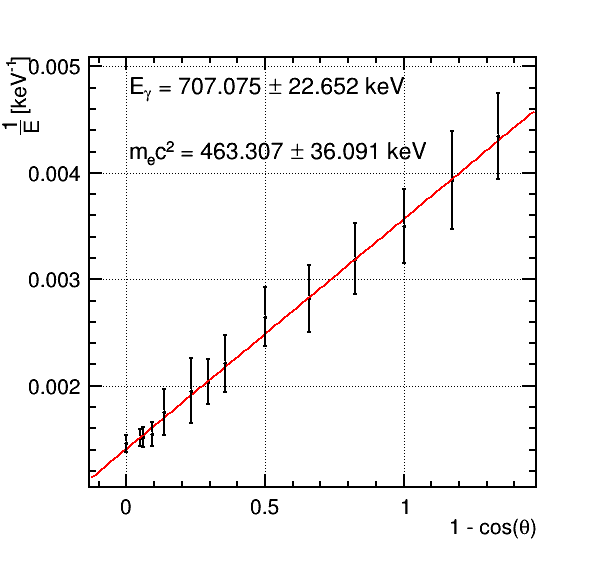
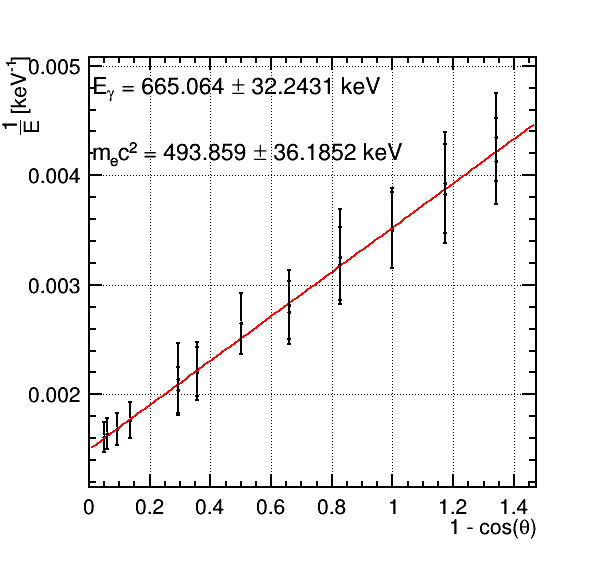
Update electron rest mass and free electron sections

diff --git a/Compton/report/ComptonReport.tex b/Compton/report/ComptonReport.tex
@@ -158,7 +158,7 @@ This form of the equation demonstrates a linear relationship between $\frac{1}{E
 	\label{Fig:EScatFit}
 \end{figure}
 
-FIG.~\ref{Fig:EScatFit} shows a linear fit applied to the experimental data (shown in red). Using the slope of this fit, the initial energy of the gamma photon was calculated to be $E_\gamma = 660.5 keV$. 
+FIG.~\ref{Fig:EScatFit} shows a linear fit applied to the experimental data (shown in red). Using the intercept of this fit, the initial energy of the gamma photon was calculated to be $E_\gamma = 665.064 \pm 32.243 keV$ which is consistent with the expected value of $661.5keV$. The slope of this fit can be used to calculate the rest mass of the electron $m_{e}c^{2}$. For this experiment, this rest mass was calculated to be $m_{e}c^{2} = 493.859 \pm 36.185 keV$ which is consistent with the expected value of $511 keV$. The data's consistency with the theoretical rest mass of the electron verifies the relationship between scattered photon energy and scattering angle outlined by Eq.~\ref{eq:energy_scatter}.
 
 \subsection{Angular Dependence of the Scattering Probability}
 
@@ -199,7 +199,30 @@ This integral gives us our value for $Y(\theta)$. $N_\gamma$ is found in much th
 
 \subsection{Free Electrons in Cu and Al}
 
-Different metals will have different number of free electrons. This depends on the relative abundance of different isotopes. Almost $100\%$ of aluminum found on earth is $^{27}$Al, while copper is $69.17 \%$ $^{63}$Cu and $30.83 \%$ $^{65}$Cu. Additionally, the metals occupy different groups of the periodic table, which effects the number of valence electrons available.
+Knowing the scattering cross section of a metal can provide information about the free electrons in that metal. More specifically, the scattering cross sections of metals can be used to compare the number of free electrons in different metals. For this experiment, Compton scattering was used to compare the number of free electrons in aluminum (Al) and the number of free electrons in copper (Cu). The ratio of free electrons in aluminum to free electrons in copper can be found by calculating the ratio of the scattering cross section of aluminum to the scattering cross section of copper.
+
+\begin{equation}
+\frac{e^{-}_{Al}}{e^{-}_{Cu}} = \frac{\frac{d\sigma}{d\Omega}_{Al}}{\frac{d\sigma}{d\Omega}_{Cu}}
+\end{equation}
+
+For this experiment, we measured the scattering cross sections of Al and Cu at angles of $25^{\circ}$ and $45^{\circ}$ in order to account for the angular dependence of cross sections. Using the same procedure as in Section 3c, we calculated the scattering cross sections of copper and aluminum at these angles, obtaining the results shown in Table~\ref{Tab:XSecCompare}. 
+
+\begin{table}[htbp]
+	\begin{center}
+		\begin{tabular}{|c|c|c|c|}
+			\hline  & $\frac{d\sigma}{d\Omega}_{1}$ ($10^{-27} m^2$) & $\frac{d\sigma}{d\Omega}_{2}$ ($10^{-27} m^2$) & $\frac{d\sigma}{d\Omega}_{Avg}$ ($10^{-27} m^2$) \\
+			\hline Al, $25^{\circ}$ & $1.083 \pm 0.054$ & $1.159 \pm 0.058$ & $1.121 \pm 0.079$\\
+			\hline Cu, $25^{\circ}$ & $0.4131 \pm 0.0207$ & $0.4322 \pm 0.0216$ & $0.4228 \pm 0.0299$\\
+			\hline Al, $45^{\circ}$ & $0.6836 \pm 0.0342$ & $0.6255 \pm 0.0313$ & $0.6546 \pm 0.0464$\\
+			\hline Cu, $45^{\circ}$ & $0.2703 \pm 0.0135$ & $0.2094 \pm 0.0105$ & $0.2399 \pm 0.0171$\\
+			\hline
+			
+		\end{tabular}
+	\end{center}
+	\caption{Scattering Cross Sections of Aluminum and Copper at Varying Angles}
+	\label{Tab:XSecCompare}
+\end{table}
+
 
 \section{Theoretical Model}
 
